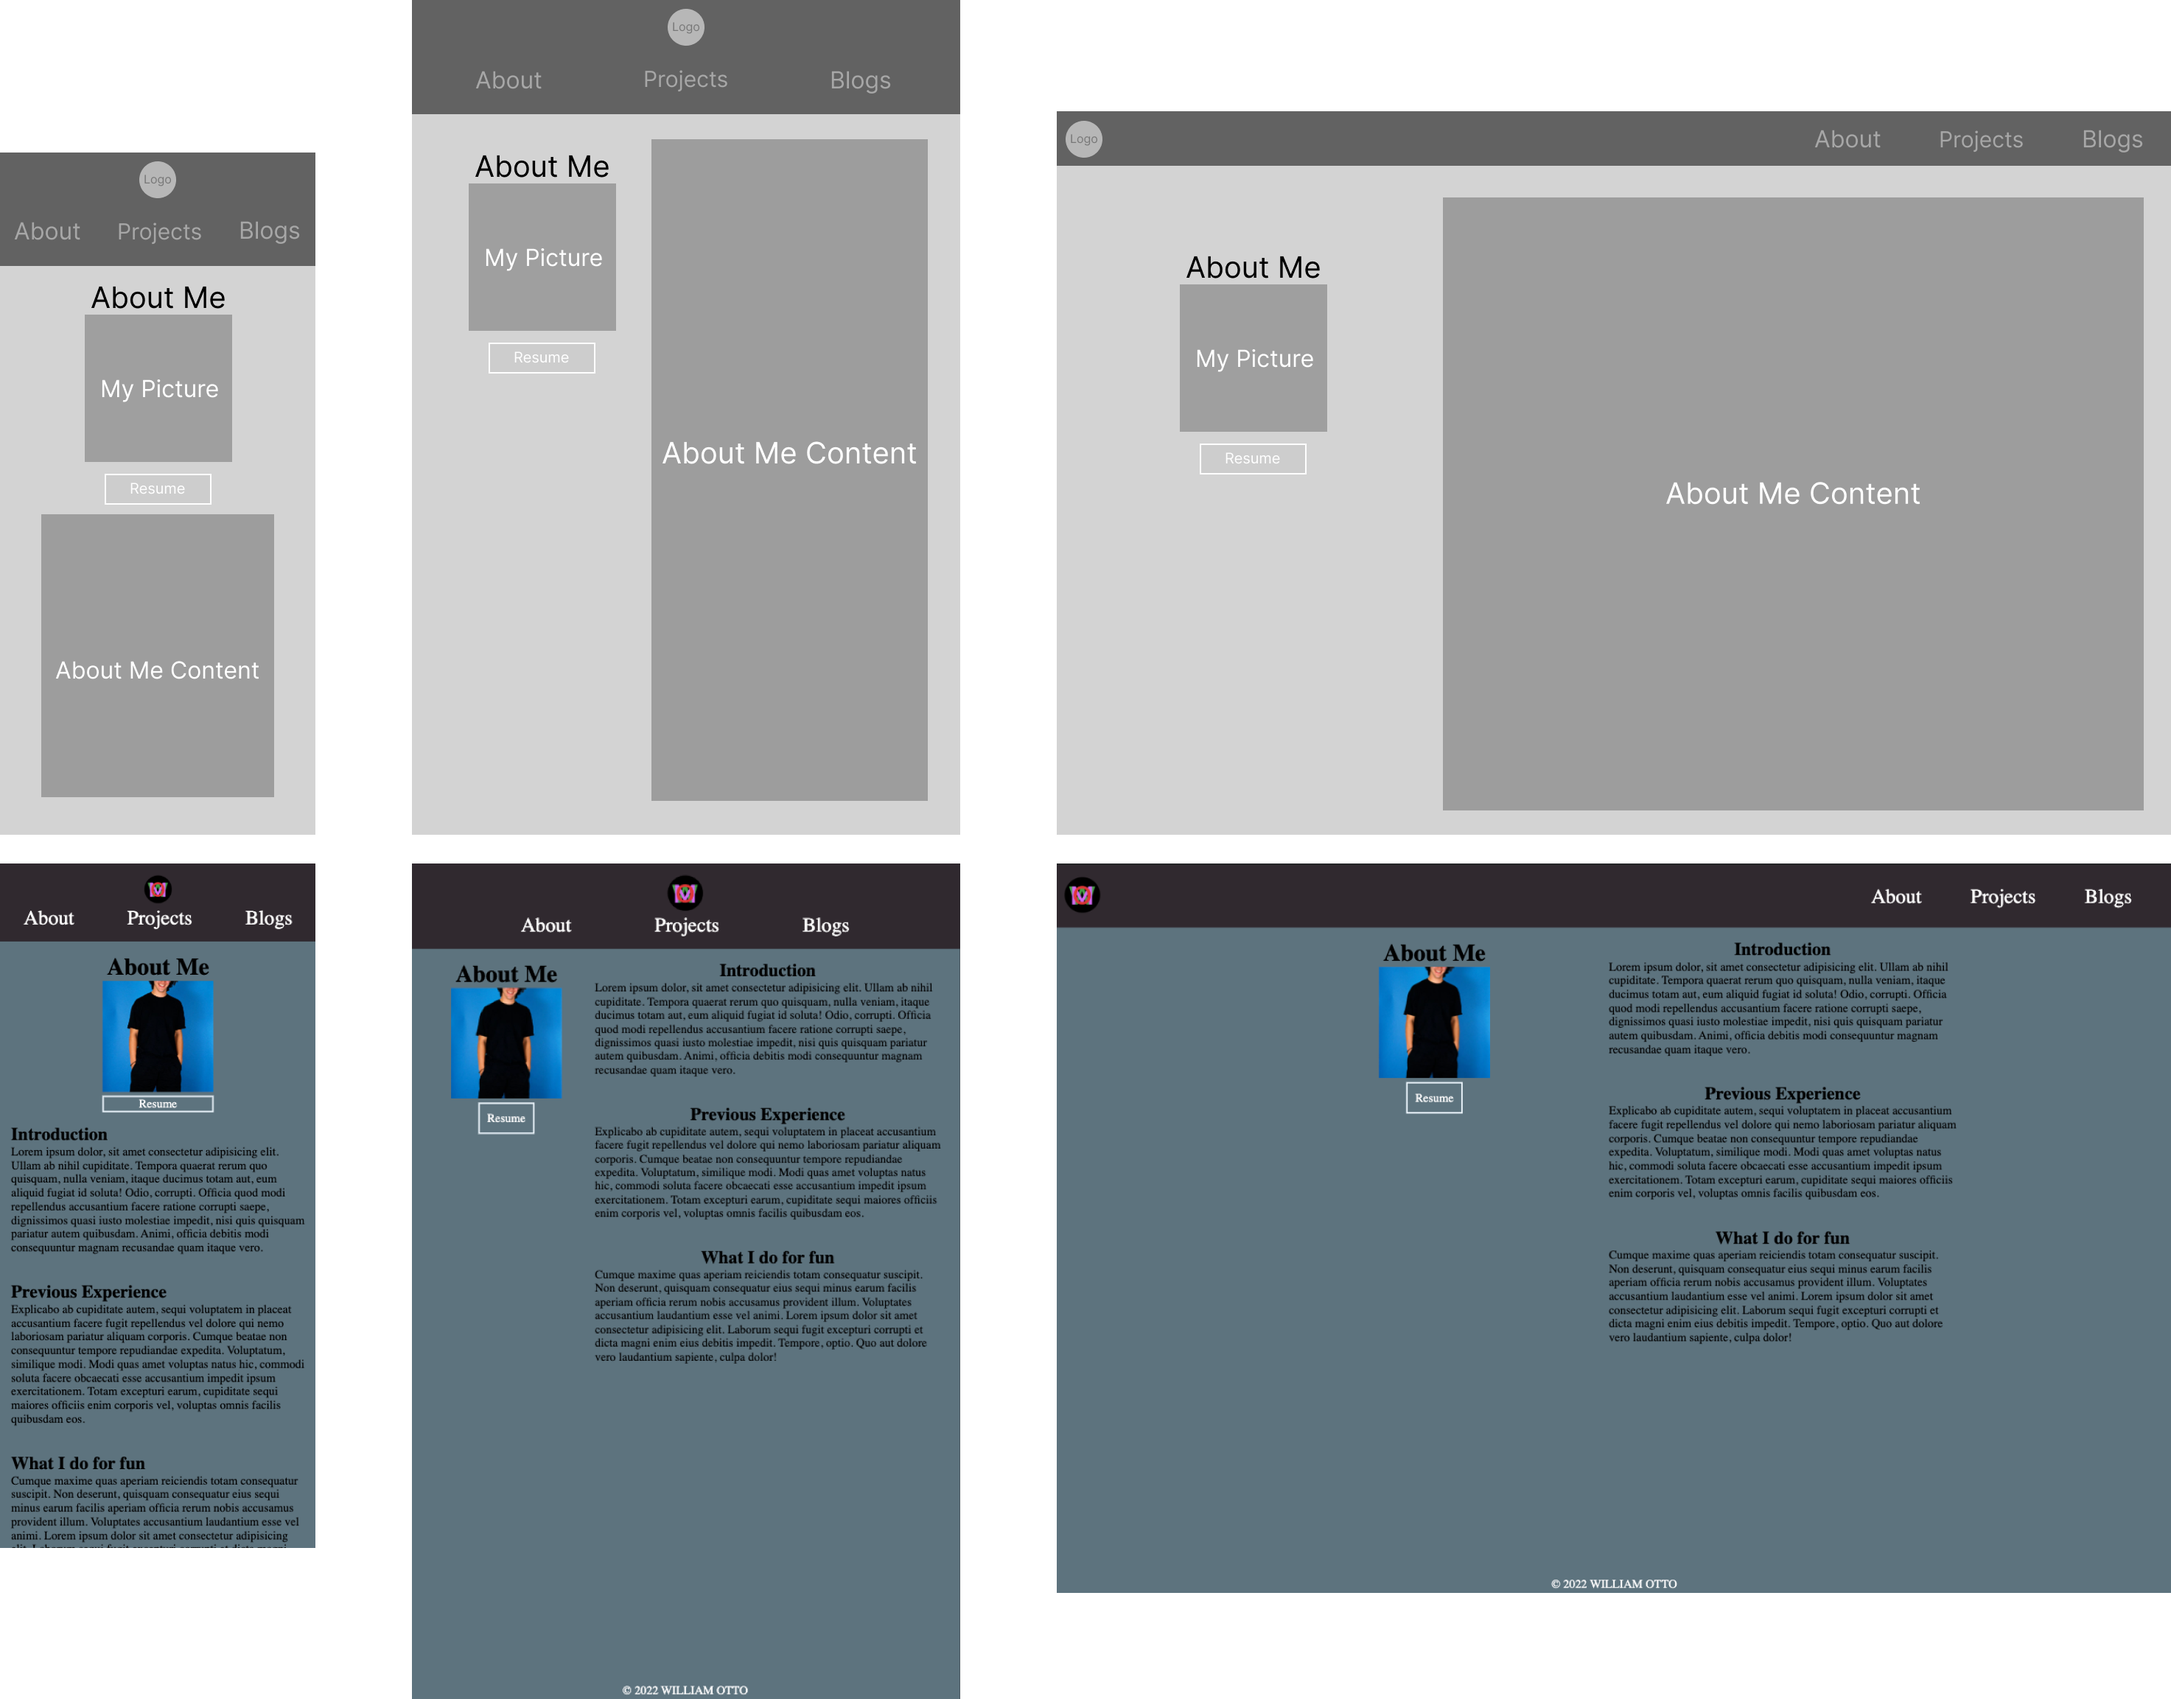
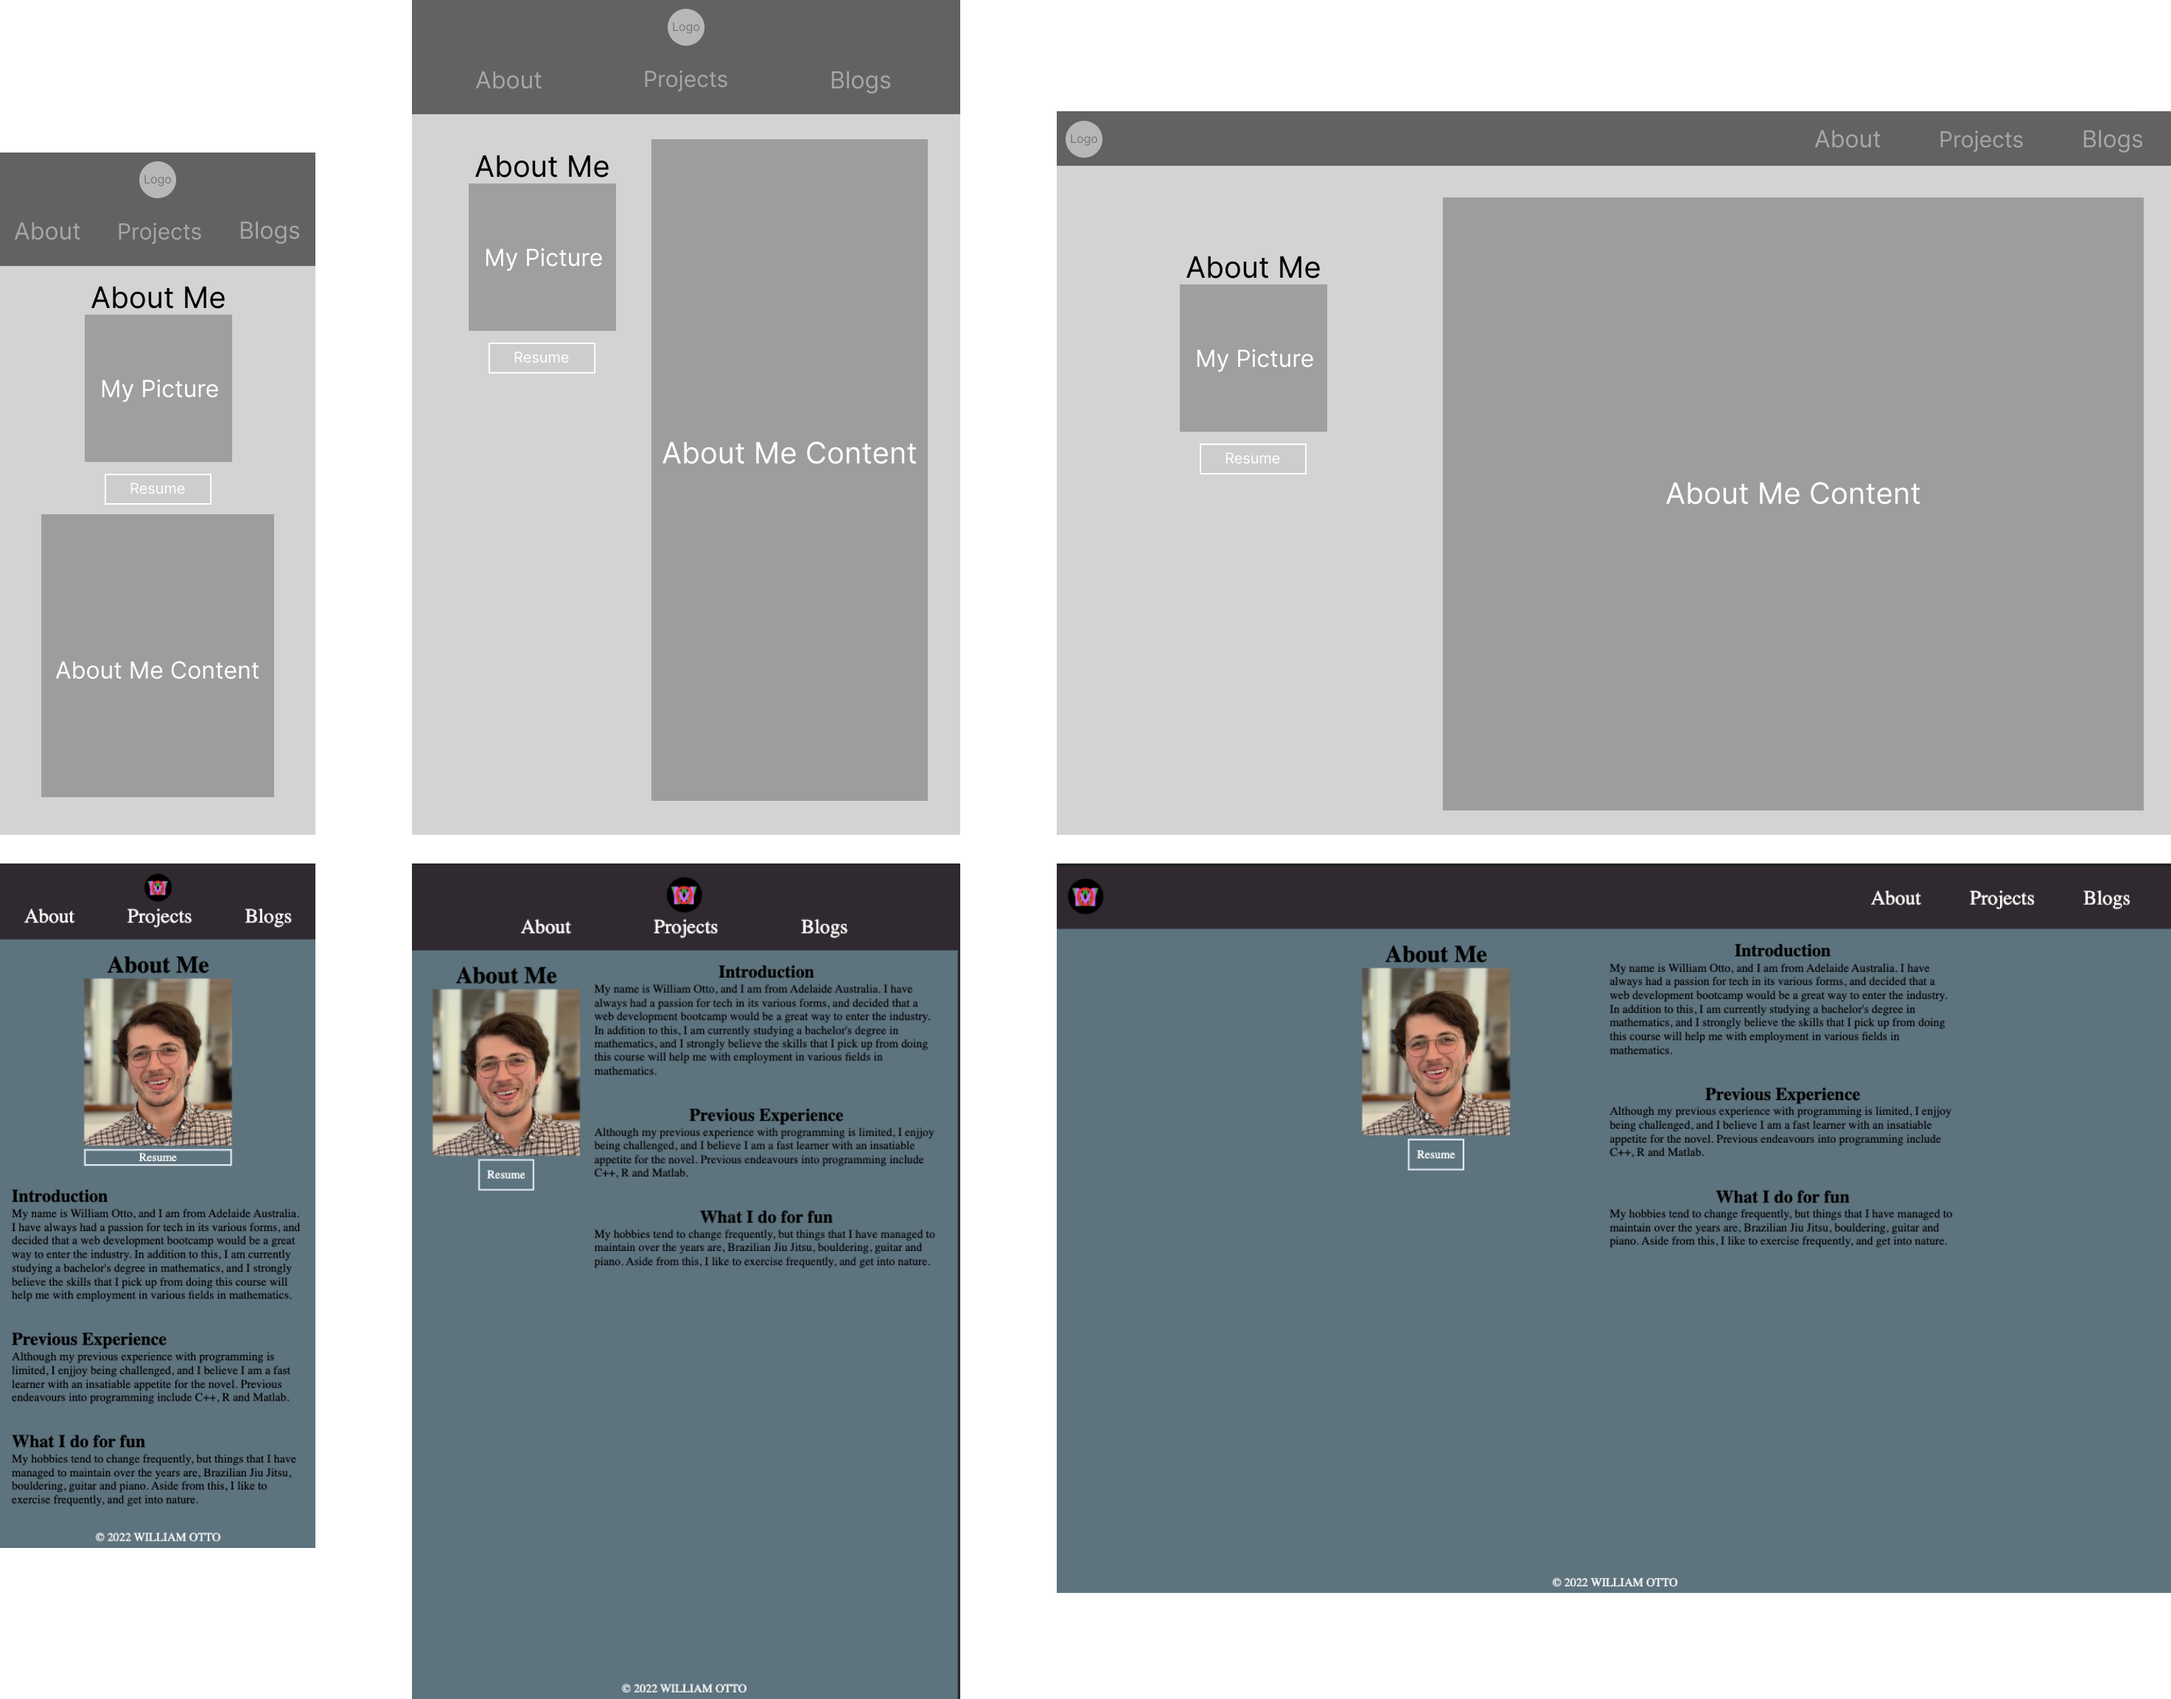
about page modify

diff --git a/src/Pages/about.html b/src/Pages/about.html
@@ -30,7 +30,7 @@
             <div class="left-container">
                 <h1>About Me</h1>
                 <!-- PROFILE PICTURE -->
-                <img src="https://placekeanu.com/150" alt="">
+                <img src="../Images/My Picture.jpeg" alt="">
                 <!-- RESUME LINK -->
                 <div>
                     <a id="resume" href="../Resume - William Otto.pdf" target="_blank">Resume</a>

diff --git a/src/Styles/about-style.css b/src/Styles/about-style.css
@@ -10,6 +10,10 @@ main {
     padding: 1rem 0 0 0;
 }
 
+.left-container img {
+    max-width: 200px;
+}
+
 .left-container h1, #resume {
     display: flex;
     justify-content: center;
